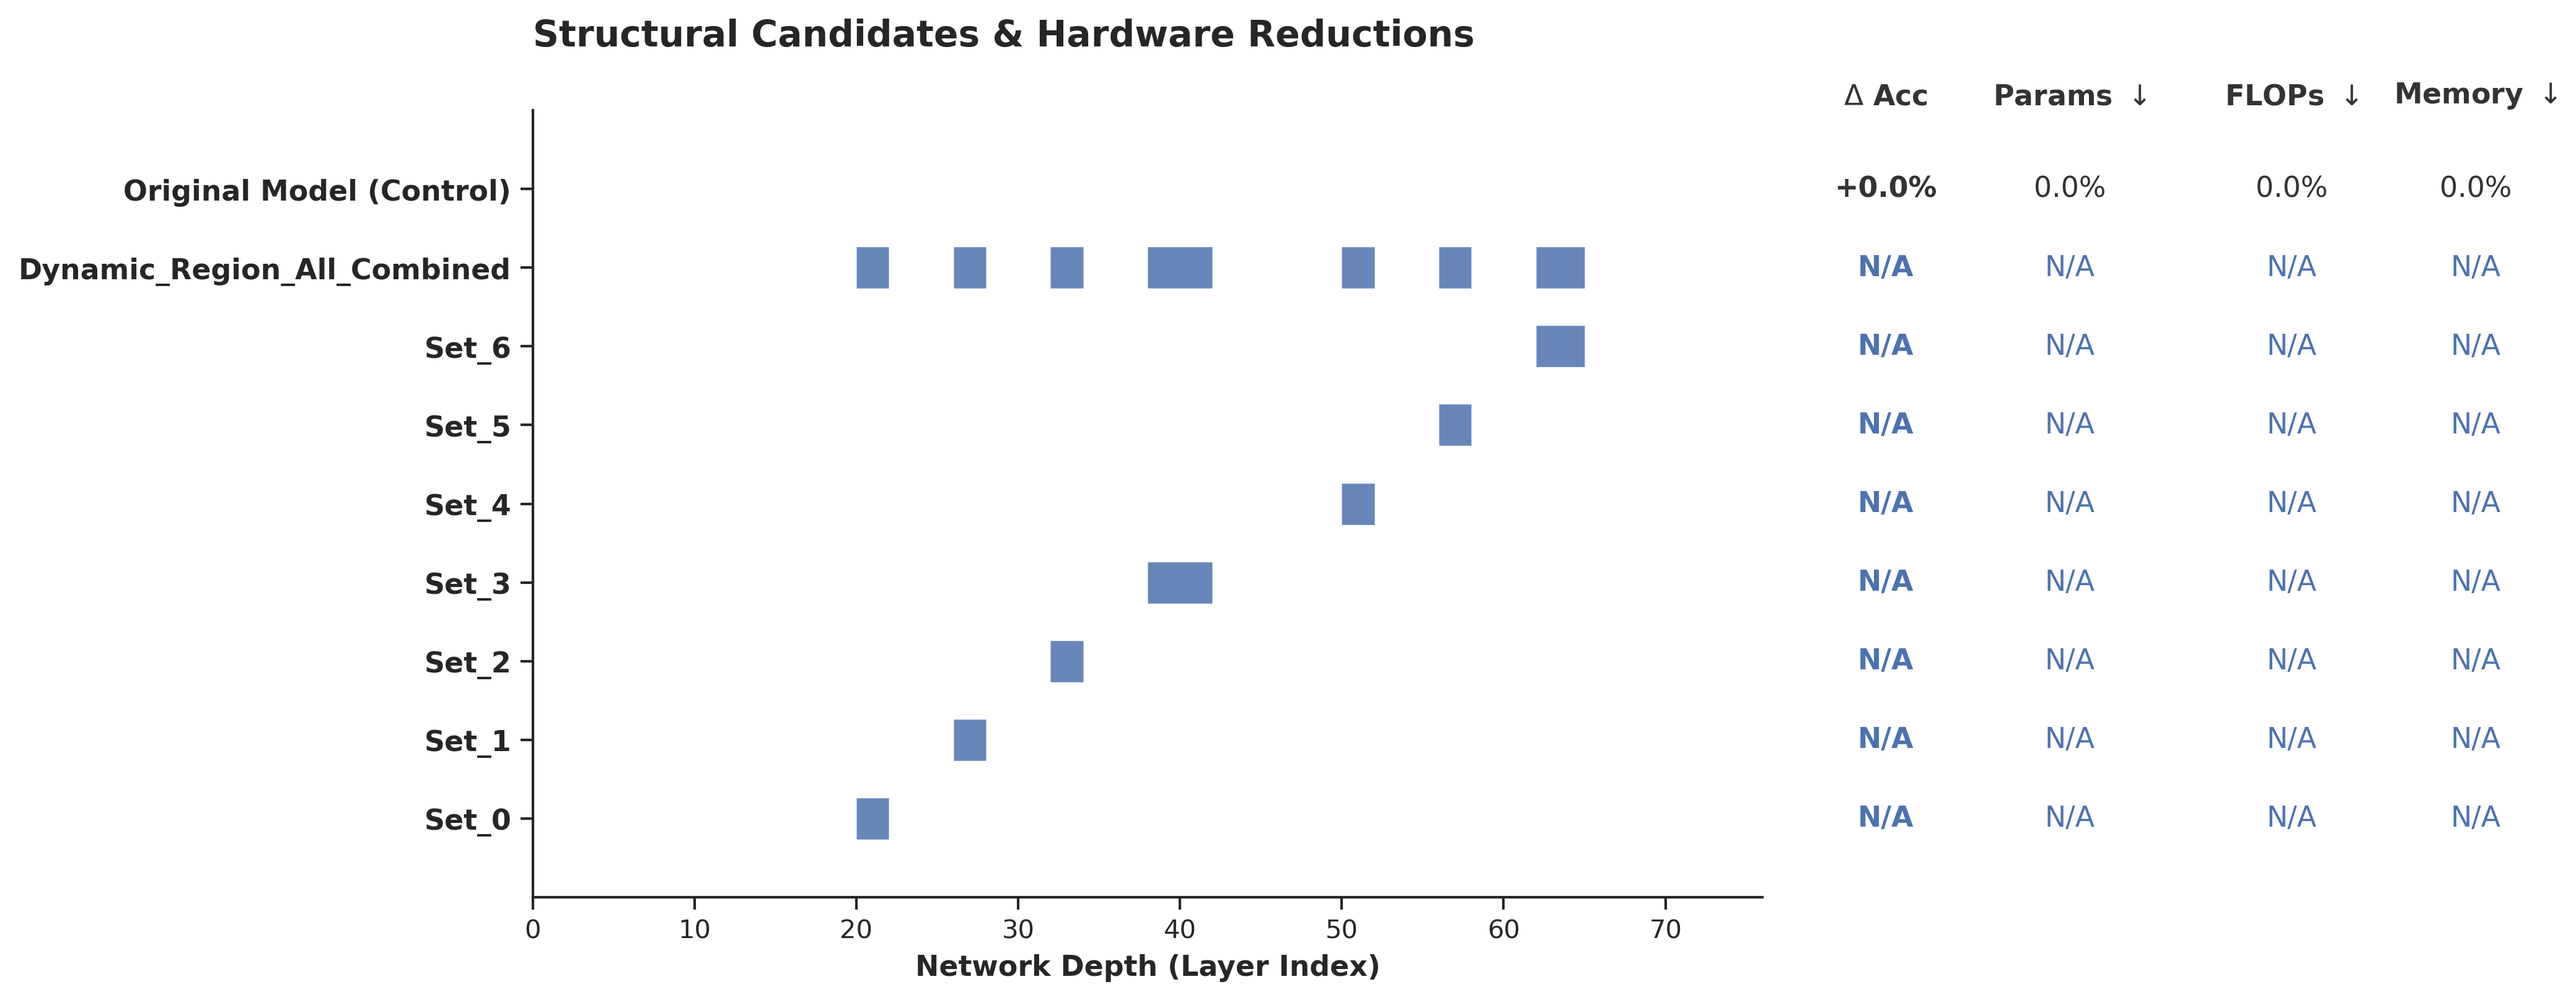
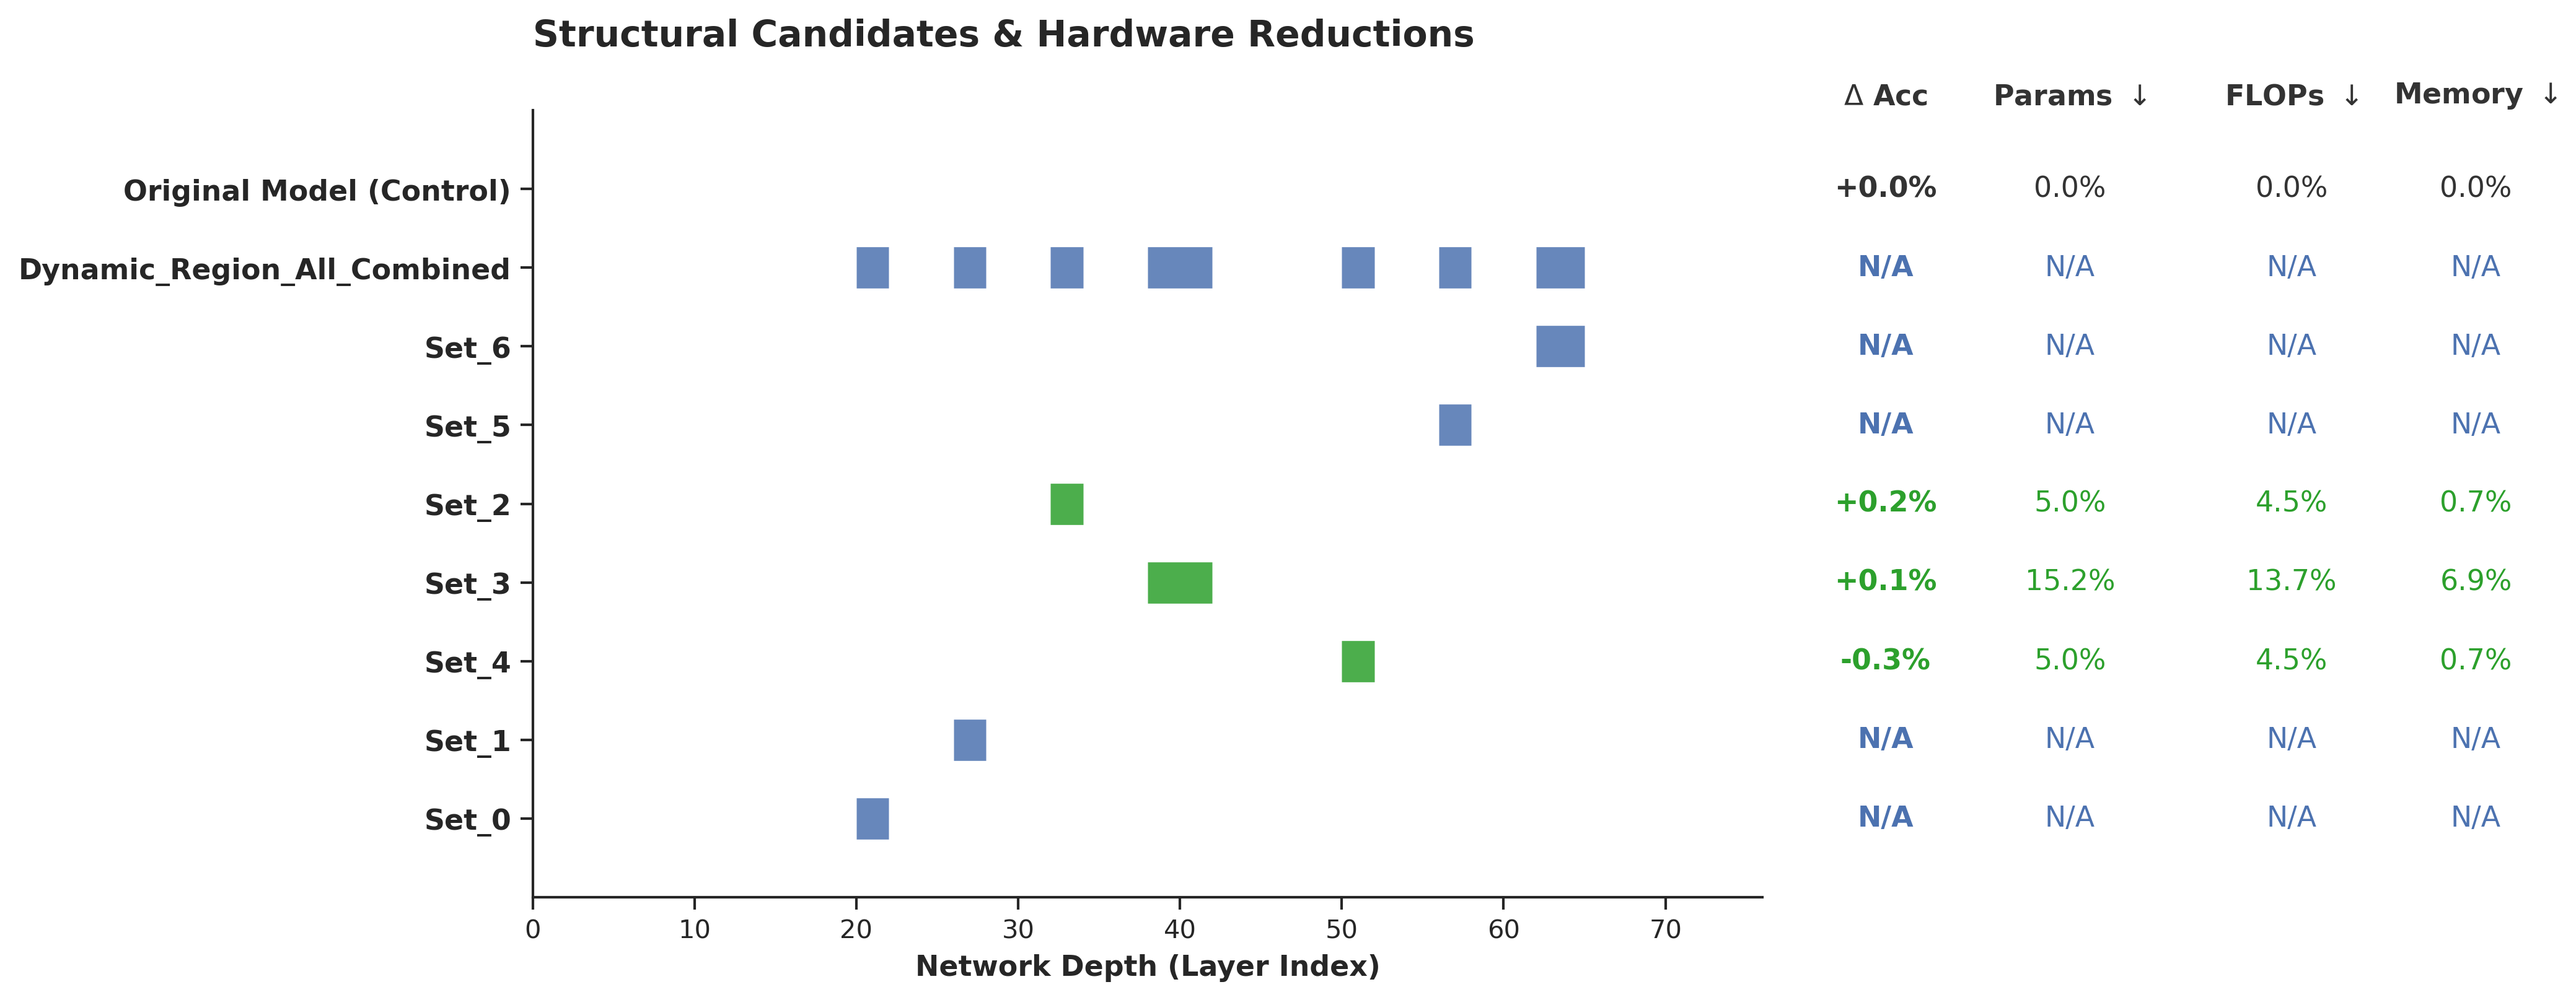
mid

diff --git a/manuscript/Tranfer/figures/hardware_efficiency/RegNetX_400MF_tinyimagenet_all_candidates.tex b/manuscript/Tranfer/figures/hardware_efficiency/RegNetX_400MF_tinyimagenet_all_candidates.tex
@@ -1,0 +1,9 @@
+\begin{tabular}{lrrrr}
+\toprule
+Candidate Block & Delta Acc (%) & Params Red. (%) & FLOPs Red. (%) & Memory Red. (%) \\
+\midrule
+Set_6 & -2.82 & 1.14 & 0.67 & 7.00 \\
+Set_15 & -2.93 & 1.14 & 0.67 & 7.00 \\
+Dynamic_Region_All_Combined & -4.04 & 14.92 & 12.86 & 7.00 \\
+\bottomrule
+\end{tabular}

diff --git a/manuscript/Tranfer/figures/hardware_efficiency/VGG16_tinyimagenet_all_candidates.tex b/manuscript/Tranfer/figures/hardware_efficiency/VGG16_tinyimagenet_all_candidates.tex
@@ -1,0 +1,7 @@
+\begin{tabular}{lrrrr}
+\toprule
+Candidate Block & Delta Acc (%) & Params Red. (%) & FLOPs Red. (%) & Memory Red. (%) \\
+\midrule
+Set_0 & 4.52 & 2.09 & 17.02 & 0.00 \\
+\bottomrule
+\end{tabular}
